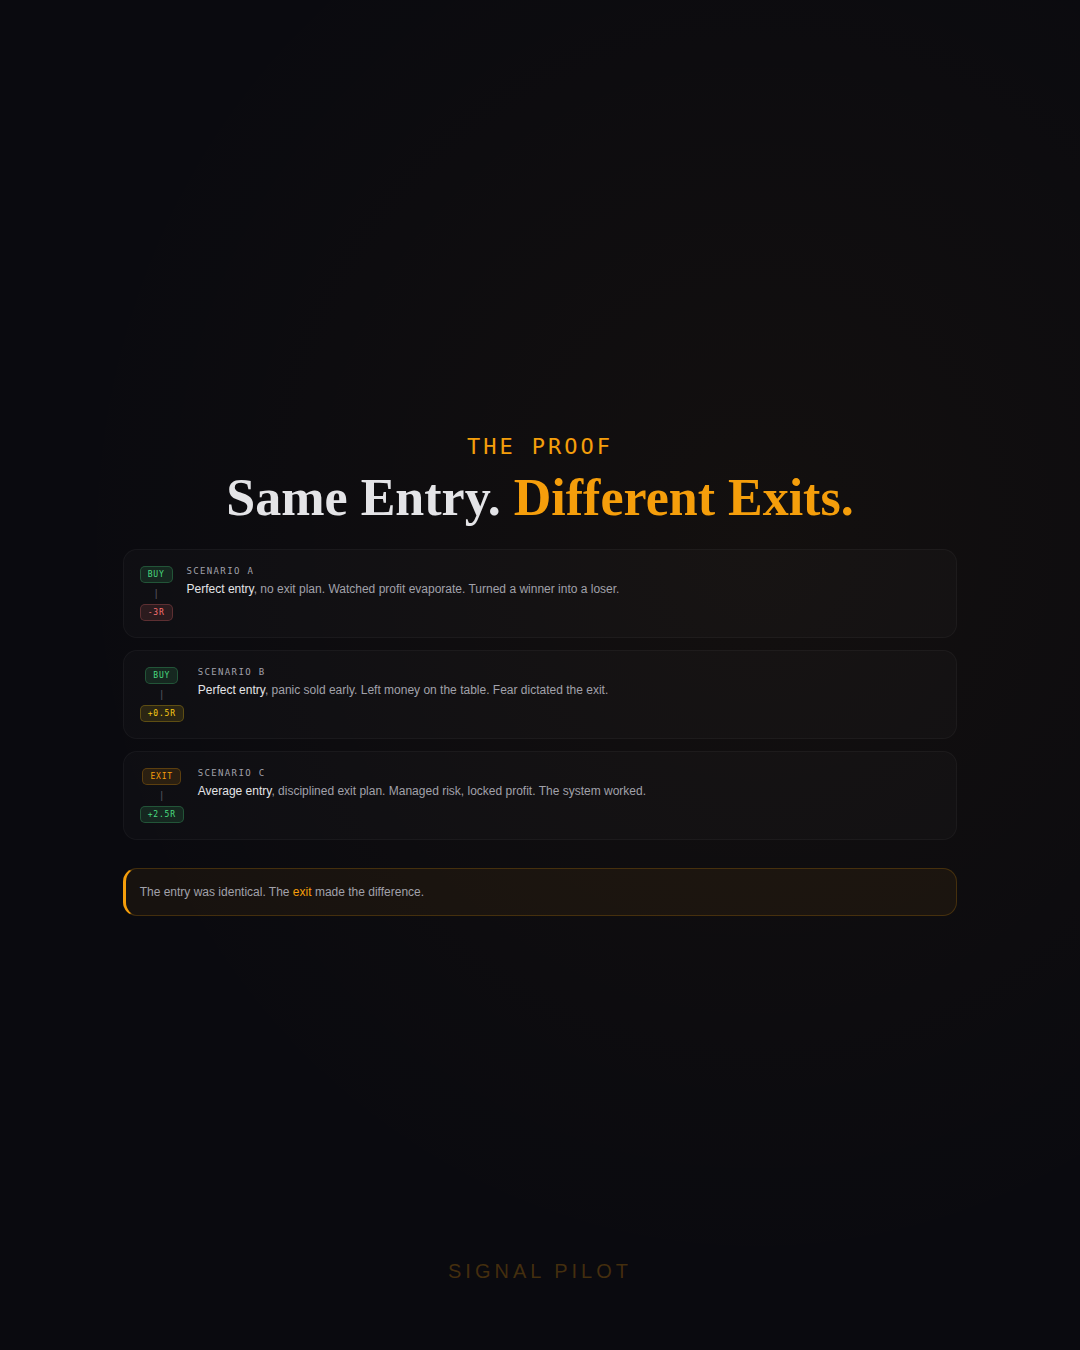
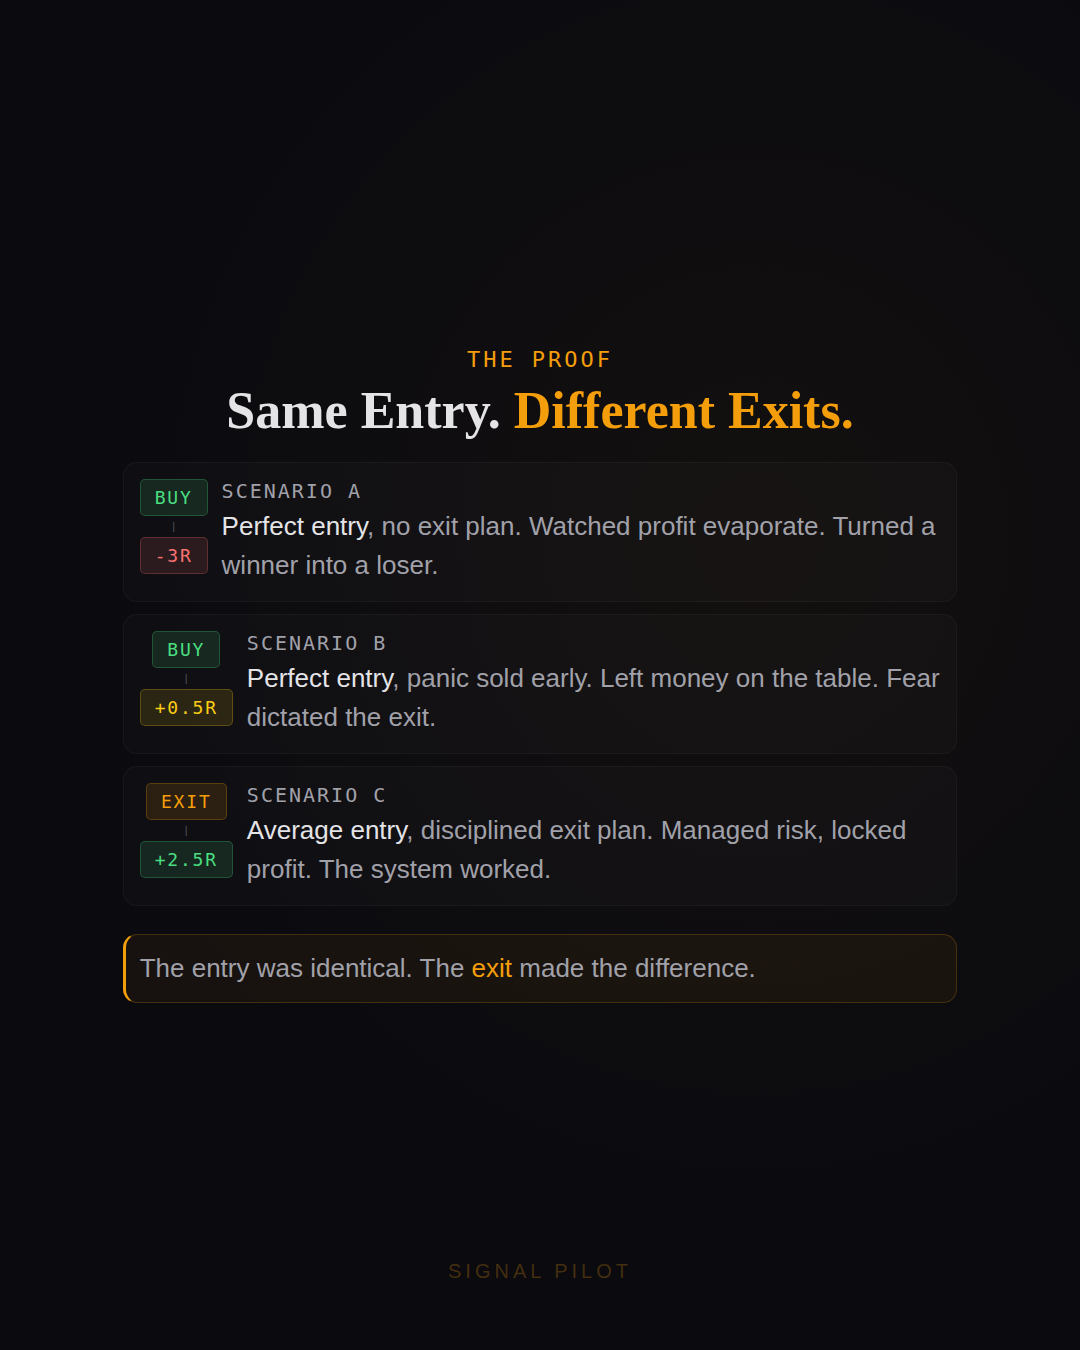
Add scenario card CSS injection, re-render posts 044, 046, 047
Added upscaling rules for .scenario-label, .scenario-desc,
.scenario-badge, and .scenario-insight-text in the renderer.
Re-rendered all 3 Row 15 posts for tomorrow's crons.

https://claude.ai/code/session_01JdAyDtW3X2RhJAyPJGnP6R

Changed region(s): [[0.1222, 0.2489, 0.8556, 0.6844], [0.1528, 0.6844, 0.7028, 0.7467], [0.3972, 0.4356, 0.4278, 0.4667]]

diff --git a/scripts/render-carousels.js b/scripts/render-carousels.js
@@ -616,6 +616,28 @@ async function renderCarousel(page, postDir, postNumber) {
         height: clamp(10px, 2cqw, 16px) !important;
       }
 
+      /* --- Scenario cards (post-044 pattern) --- */
+      .scenario-label {
+        font-size: clamp(14px, 3.5cqw, 20px) !important;
+        letter-spacing: 2px !important;
+      }
+      .scenario-desc {
+        font-size: clamp(18px, 4.5cqw, 26px) !important;
+        line-height: 1.5 !important;
+        color: var(--txt2) !important;
+      }
+      .scenario-desc em {
+        color: var(--txt) !important;
+      }
+      .scenario-badge {
+        font-size: clamp(12px, 3cqw, 18px) !important;
+        padding: clamp(4px, 0.8cqw, 7px) clamp(8px, 1.6cqw, 14px) !important;
+      }
+      .scenario-insight-text {
+        font-size: clamp(18px, 4.5cqw, 26px) !important;
+        line-height: 1.5 !important;
+      }
+
       /* --- Excuse items --- */
       .excuse-x {
         font-size: clamp(18px, 4.5cqw, 26px) !important;
